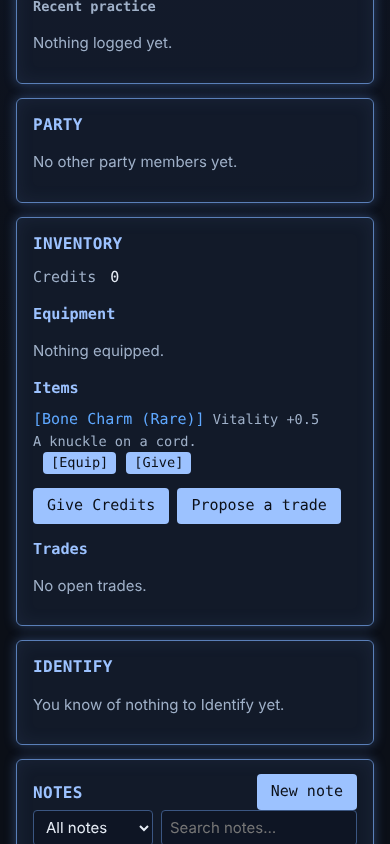
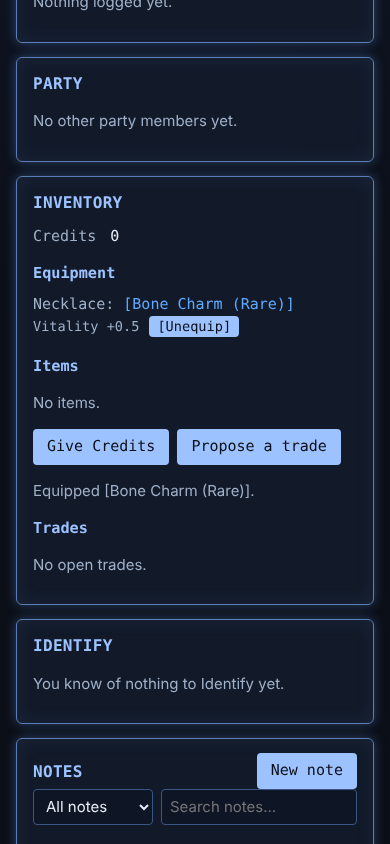
fix(M6.1): review round 1: edits diff against the opened copy, worn items block slot changes, equipped count, live sheet-value preview, count validation; canary and new e2e asserts
Claude-Session: https://claude.ai/code/session_01L71yhYsPG2o9HR2zpUVqZC

diff --git a/apps/web/src/gm/ItemLibrary.tsx b/apps/web/src/gm/ItemLibrary.tsx
@@ -5,10 +5,14 @@ import type { LiveClient } from '../live';
 import { cssToken } from '../player/sheet';
 import {
   adjustCommand,
+  bonusPreview,
+  changedSince,
   emptyItemDraft,
   itemDraftOf,
   itemSaveCommand,
   libraryItems,
+  savedDef,
+  wearersOf,
   type ItemDraft,
 } from './itemLibraryModel';
 
@@ -33,6 +37,9 @@ export function ItemLibrary({ client, state }: { client: LiveClient; state: Camp
     baseId !== null && Object.prototype.hasOwnProperty.call(state.items, baseId)
       ? (state.items[baseId] ?? null)
       : null;
+  // The copy the form was opened from (or last saved): a save sends only the
+  // fields changed since then, so another GM's edits to other fields stay.
+  const [loaded, setLoaded] = useState<ItemDef | null>(null);
   const [draft, setDraft] = useState<ItemDraft>(() => emptyItemDraft(rarities));
   const [busy, setBusy] = useState(false);
   const [outcome, setOutcome] = useState<Outcome>(null);
@@ -41,22 +48,27 @@ export function ItemLibrary({ client, state }: { client: LiveClient; state: Camp
   const characterId = ids.includes(who) ? who : (ids[0] ?? '');
   const [count, setCount] = useState('1');
   const shown = libraryItems(state, query);
-  const command = itemSaveCommand(draft, base, stats);
+  const command = itemSaveCommand(draft, base ? (loaded ?? base) : null, stats);
+  const wearers = base ? wearersOf(state, base.id) : [];
+  const slotBlocked = base !== null && wearers.length > 0 && (draft.slot || null) !== base.slot;
+  const stale = base !== null && loaded !== null && changedSince(loaded, base);
 
   const open = (def: ItemDef | null) => {
     setBaseId(def?.id ?? null);
+    setLoaded(def);
     setDraft(def ? itemDraftOf(def) : emptyItemDraft(rarities));
     setOutcome(null);
   };
   const save = async (e: FormEvent) => {
     e.preventDefault();
-    if (!command) return;
+    if (!command || slotBlocked) return;
     setBusy(true);
     const r = await client.command(command);
     setBusy(false);
     const name = draft.name.trim();
     if (!r.ok) return setOutcome({ ok: false, text: friendlyError(r.error) });
     setOutcome({ ok: true, text: base ? `[${name}] saved` : `[${name}] added to the library` });
+    if (base) setLoaded(savedDef(loaded ?? base, command));
     if (!base) setDraft(emptyItemDraft(rarities));
   };
   const adjust = async (sign: 1 | -1) => {
@@ -76,7 +88,12 @@ export function ItemLibrary({ client, state }: { client: LiveClient; state: Camp
           : `Took ${count.trim()} × [${base.name}] from ${name}`,
     });
   };
-  const held = base && characterId ? (holdingsOf(state, characterId).inventory[base.id] ?? 0) : 0;
+  const holdings = characterId ? holdingsOf(state, characterId) : null;
+  const held = base && holdings ? (holdings.inventory[base.id] ?? 0) : 0;
+  const worn =
+    base && holdings ? Object.values(holdings.equipped).filter((i) => i === base.id).length : 0;
+  const adjustable = base ? adjustCommand(characterId, base.id, count, 1) !== null : false;
+  const display = rules.stats;
 
   return (
     <section className="window item-library" aria-labelledby="item-library">
@@ -161,7 +178,7 @@ export function ItemLibrary({ client, state }: { client: LiveClient; state: Camp
           />
         </label>
         <fieldset className="item-bonuses">
-          <legend>Flat stat bonuses while equipped (stat points; sheets show tenths)</legend>
+          <legend>Flat stat bonuses while equipped, in stat points (sheet value shown)</legend>
           {stats.map((s) => (
             <label key={s.id}>
               {s.name}
@@ -172,10 +189,26 @@ export function ItemLibrary({ client, state }: { client: LiveClient; state: Camp
                   setDraft({ ...draft, bonuses: { ...draft.bonuses, [s.id]: e.target.value } })
                 }
               />
+              <span className="muted bonus-preview" data-testid={`bonus-preview-${s.id}`}>
+                {bonusPreview(draft.bonuses[s.id], display)}
+              </span>
             </label>
           ))}
         </fieldset>
-        <button type="submit" disabled={busy || command === null}>
+        {stale && (
+          <p className="muted" role="note">
+            Changed elsewhere since you opened it. Saving changes only the fields you edited.{' '}
+            <button type="button" className="secondary" onClick={() => base && open(base)}>
+              Reload
+            </button>
+          </p>
+        )}
+        {slotBlocked && (
+          <p className="err" role="note">
+            Worn by {wearers.join(', ')}: unequip it before changing its slot.
+          </p>
+        )}
+        <button type="submit" disabled={busy || command === null || slotBlocked}>
           {base ? 'Save changes' : 'Add to library'}
         </button>
       </form>
@@ -197,14 +230,15 @@ export function ItemLibrary({ client, state }: { client: LiveClient; state: Camp
           </label>
           <p className="muted" data-testid="item-held">
             {state.characters[characterId]?.name} holds {held}
+            {worn > 0 && ` (+${worn} equipped; unequip to take)`}
           </p>
-          <button type="button" disabled={busy} onClick={() => void adjust(1)}>
+          <button type="button" disabled={busy || !adjustable} onClick={() => void adjust(1)}>
             Give
           </button>
           <button
             type="button"
             className="secondary"
-            disabled={busy || held === 0}
+            disabled={busy || held === 0 || !adjustable}
             onClick={() => void adjust(-1)}
           >
             Take

diff --git a/e2e/M6.1.spec.ts b/e2e/M6.1.spec.ts
@@ -51,6 +51,7 @@ test('the GM creates, edits, gives and takes an item; the player sees it live', 
   await form.getByLabel('Vitality').fill('1.5');
   await expect(form.getByRole('button', { name: 'Add to library' })).toBeDisabled();
   await form.getByLabel('Vitality').fill('5');
+  await expect(form.getByTestId('bonus-preview-vitality')).toHaveText('+0.5');
   await form.getByRole('button', { name: 'Add to library' }).click();
   await expect(library.getByRole('status')).toHaveText('[Bone Charm] added to the library');
   const list = library.getByRole('list', { name: 'Library items' });
@@ -58,6 +59,10 @@ test('the GM creates, edits, gives and takes an item; the player sees it live', 
 
   const player = await browser.newPage({ viewport: { width: 390, height: 844 } });
   const playerErrors = watchErrors(player);
+  const playerFrames: string[] = [];
+  player.on('websocket', (ws) =>
+    ws.on('framereceived', (f) => playerFrames.push(String(f.payload))),
+  );
   await player.goto(server.url);
   await player.getByRole('link', { name: /Jake/ }).click();
   await expect(player.getByTestId('connection')).toHaveText('Connected');
@@ -83,11 +88,37 @@ test('the GM creates, edits, gives and takes an item; the player sees it live', 
   await expect(form.getByRole('button', { name: 'Save changes' })).toBeDisabled();
   await expect(list).toHaveText('[Bone Charm] (Rare)');
   await expect(player.getByTestId('inventory')).toContainText('Rare');
+  await expect(player.getByTestId('inventory')).toContainText('Vitality +0.5');
+
+  // A GM-only library item the player does not hold never reaches them.
+  await library.getByRole('button', { name: 'New item' }).click();
+  await form.getByLabel('Name').fill('Secret Blade');
+  await form.getByRole('button', { name: 'Add to library' }).click();
+  await expect(library.getByRole('status')).toHaveText('[Secret Blade] added to the library');
+
+  // Once worn, the slot cannot change from the library, and Take explains why.
+  await list.getByRole('button', { name: /Bone Charm/ }).click();
+  await player.getByTestId('inventory').getByRole('button', { name: 'Equip Bone Charm' }).click();
+  await expect(give.getByTestId('item-held')).toHaveText(
+    'Jake holds 0 (+1 equipped; unequip to take)',
+  );
+  await form.getByLabel('Slot').selectOption({ label: 'Not equippable' });
+  await expect(form.getByRole('note')).toHaveText(
+    'Worn by Jake: unequip it before changing its slot.',
+  );
+  await expect(form.getByRole('button', { name: 'Save changes' })).toBeDisabled();
+  await form.getByLabel('Slot').selectOption({ label: 'Necklace' });
+  await give.getByLabel('Count').fill('0');
+  await expect(give.getByRole('button', { name: 'Give' })).toBeDisabled();
+  await give.getByLabel('Count').fill('1');
   await library.evaluate((el) => el.scrollIntoView({ block: 'start' }));
   await gm.screenshot({ path: path.join(shots, 'gm-item-library-1366x768.png') });
   await player.getByTestId('inventory').scrollIntoViewIfNeeded();
   await player.screenshot({ path: path.join(shots, 'player-inventory-390x844.png') });
 
+  expect(playerFrames.length).toBeGreaterThan(0);
+  expect(playerFrames.some((f) => f.includes('Secret Blade') || f.includes(GM_KEY))).toBe(false);
+  await expect(player.locator('body')).not.toContainText('Secret Blade');
   expect(errors).toEqual([]);
   expect(playerErrors).toEqual([]);
 });

diff --git a/apps/web/test/itemLibraryModel.test.ts b/apps/web/test/itemLibraryModel.test.ts
@@ -7,6 +7,10 @@ import {
   itemSaveCommand,
   libraryItems,
   parseBonuses,
+  bonusPreview,
+  changedSince,
+  savedDef,
+  wearersOf,
 } from '../src/gm/itemLibraryModel';
 
 // M6.1 item library form helpers (DESIGN §4, §7: items give flat bonuses only).
@@ -99,5 +103,53 @@ describe('item library model (M6.1)', () => {
     expect(adjustCommand('jake', 'charm', ' 1 ', -1)).toMatchObject({ items: { charm: -1 } });
     expect(adjustCommand('jake', 'charm', '0', 1)).toBeNull();
     expect(adjustCommand('jake', 'charm', '-3', 1)).toBeNull();
+  });
+});
+
+describe('editing against the copy the form was opened from', () => {
+  it('keeps another GM edit to a field this form did not touch', () => {
+    const live: ItemDef = { ...charm, name: 'Knuckle Charm' };
+    const draft = { ...itemDraftOf(charm), description: 'Older than it looks.' };
+    expect(changedSince(charm, live)).toBe(true);
+    expect(itemSaveCommand(draft, charm, stats)).toEqual({
+      type: 'item.edit',
+      itemId: 'charm',
+      description: 'Older than it looks.',
+    });
+  });
+
+  it('savedDef applies the sent fields, so the same draft then sends nothing', () => {
+    const draft = { ...itemDraftOf(charm), rarity: 'rare', bonuses: { vitality: '7' } };
+    const command = itemSaveCommand(draft, charm, stats);
+    expect(command).not.toBeNull();
+    const after = savedDef(charm, command!);
+    expect(after).toEqual({ ...charm, rarity: 'rare', bonuses: [{ stat: 'vitality', flat: 7 }] });
+    expect(itemSaveCommand(draft, after, stats)).toBeNull();
+    expect(changedSince(after, after)).toBe(false);
+  });
+});
+
+describe('wearersOf and bonusPreview', () => {
+  it('names the characters wearing an item, in character order', () => {
+    const state = {
+      characterOrder: ['b', 'a', 'c'],
+      characters: { a: { name: 'Jake' }, b: { name: 'Casper' }, c: { name: 'Kim' } },
+      holdings: {
+        a: { currency: 0, inventory: {}, equipped: { 'necklace:0': 'charm' } },
+        b: { currency: 0, inventory: { charm: 1 }, equipped: { 'ring:0': 'charm' } },
+        c: { currency: 0, inventory: { charm: 2 }, equipped: {} },
+      },
+    } as unknown as Parameters<typeof wearersOf>[0];
+    expect(wearersOf(state, 'charm')).toEqual(['Casper', 'Jake']);
+    expect(wearersOf(state, 'other')).toEqual([]);
+  });
+
+  it('shows a typed bonus as the sheet shows it', () => {
+    const display = { displayDivisor: 10, displayDecimals: 1 };
+    expect(bonusPreview('5', display)).toBe('+0.5');
+    expect(bonusPreview('-12', display)).toBe('-1.2');
+    expect(bonusPreview('0', display)).toBe('');
+    expect(bonusPreview('1.5', display)).toBe('');
+    expect(bonusPreview(undefined, display)).toBe('');
   });
 });

diff --git a/apps/web/src/gm/itemLibraryModel.ts b/apps/web/src/gm/itemLibraryModel.ts
@@ -109,3 +109,59 @@ export function adjustCommand(
   if (n < 1) return null;
   return { type: 'holdings.adjust', characterId, items: { [itemId]: sign * n } };
 }
+
+/**
+ * The item as it will read once `command` (from `itemSaveCommand`, diffed
+ * against `loaded`) is applied: the form's new baseline after a save, so a
+ * second save sends nothing and later edits elsewhere are not overwritten.
+ */
+export function savedDef(loaded: ItemDef, command: Command): ItemDef {
+  if (command.type !== 'item.edit') return loaded;
+  const { name, rarity, description, slot, bonuses } = command;
+  return {
+    ...loaded,
+    ...(name !== undefined && { name }),
+    ...(rarity !== undefined && { rarity }),
+    ...(description !== undefined && { description }),
+    ...(slot !== undefined && { slot }),
+    ...(bonuses !== undefined && {
+      bonuses: bonuses.map((b) => ({
+        stat: b.stat,
+        ...(b.flat !== undefined && { flat: b.flat }),
+      })),
+    }),
+  };
+}
+
+/** True when the live item differs from the copy the form was opened from (another GM edit). */
+export function changedSince(loaded: ItemDef, live: ItemDef): boolean {
+  return JSON.stringify(loaded) !== JSON.stringify(live);
+}
+
+/** Names of the characters wearing `itemId`, in character order. */
+export function wearersOf(
+  state: Pick<CampaignState, 'characterOrder' | 'characters' | 'holdings'>,
+  itemId: string,
+): string[] {
+  return state.characterOrder.flatMap((id) => {
+    const c = Object.prototype.hasOwnProperty.call(state.characters, id)
+      ? state.characters[id]
+      : undefined;
+    const h = Object.prototype.hasOwnProperty.call(state.holdings, id)
+      ? state.holdings[id]
+      : undefined;
+    if (!c || !h) return [];
+    return Object.values(h.equipped).includes(itemId) ? [c.name] : [];
+  });
+}
+
+/** How one typed bonus reads on a sheet ("+0.5"), or '' when blank or not a whole number. */
+export function bonusPreview(
+  raw: string | undefined,
+  display: { displayDivisor: number; displayDecimals: number },
+): string {
+  const t = (raw ?? '').trim();
+  if (!/^[+-]?\d+$/u.test(t) || Number(t) === 0) return '';
+  const v = Number(t) / display.displayDivisor;
+  return `${v > 0 ? '+' : ''}${v.toFixed(display.displayDecimals)}`;
+}

diff --git a/apps/web/src/styles.css b/apps/web/src/styles.css
@@ -2304,3 +2304,9 @@ ol.change-log li.undone .change-text {
 .item-give button {
   margin-bottom: 10px;
 }
+.bonus-preview {
+  display: block;
+  min-height: 1.2em;
+  font-size: 0.8rem;
+  font-family: var(--mono);
+}
